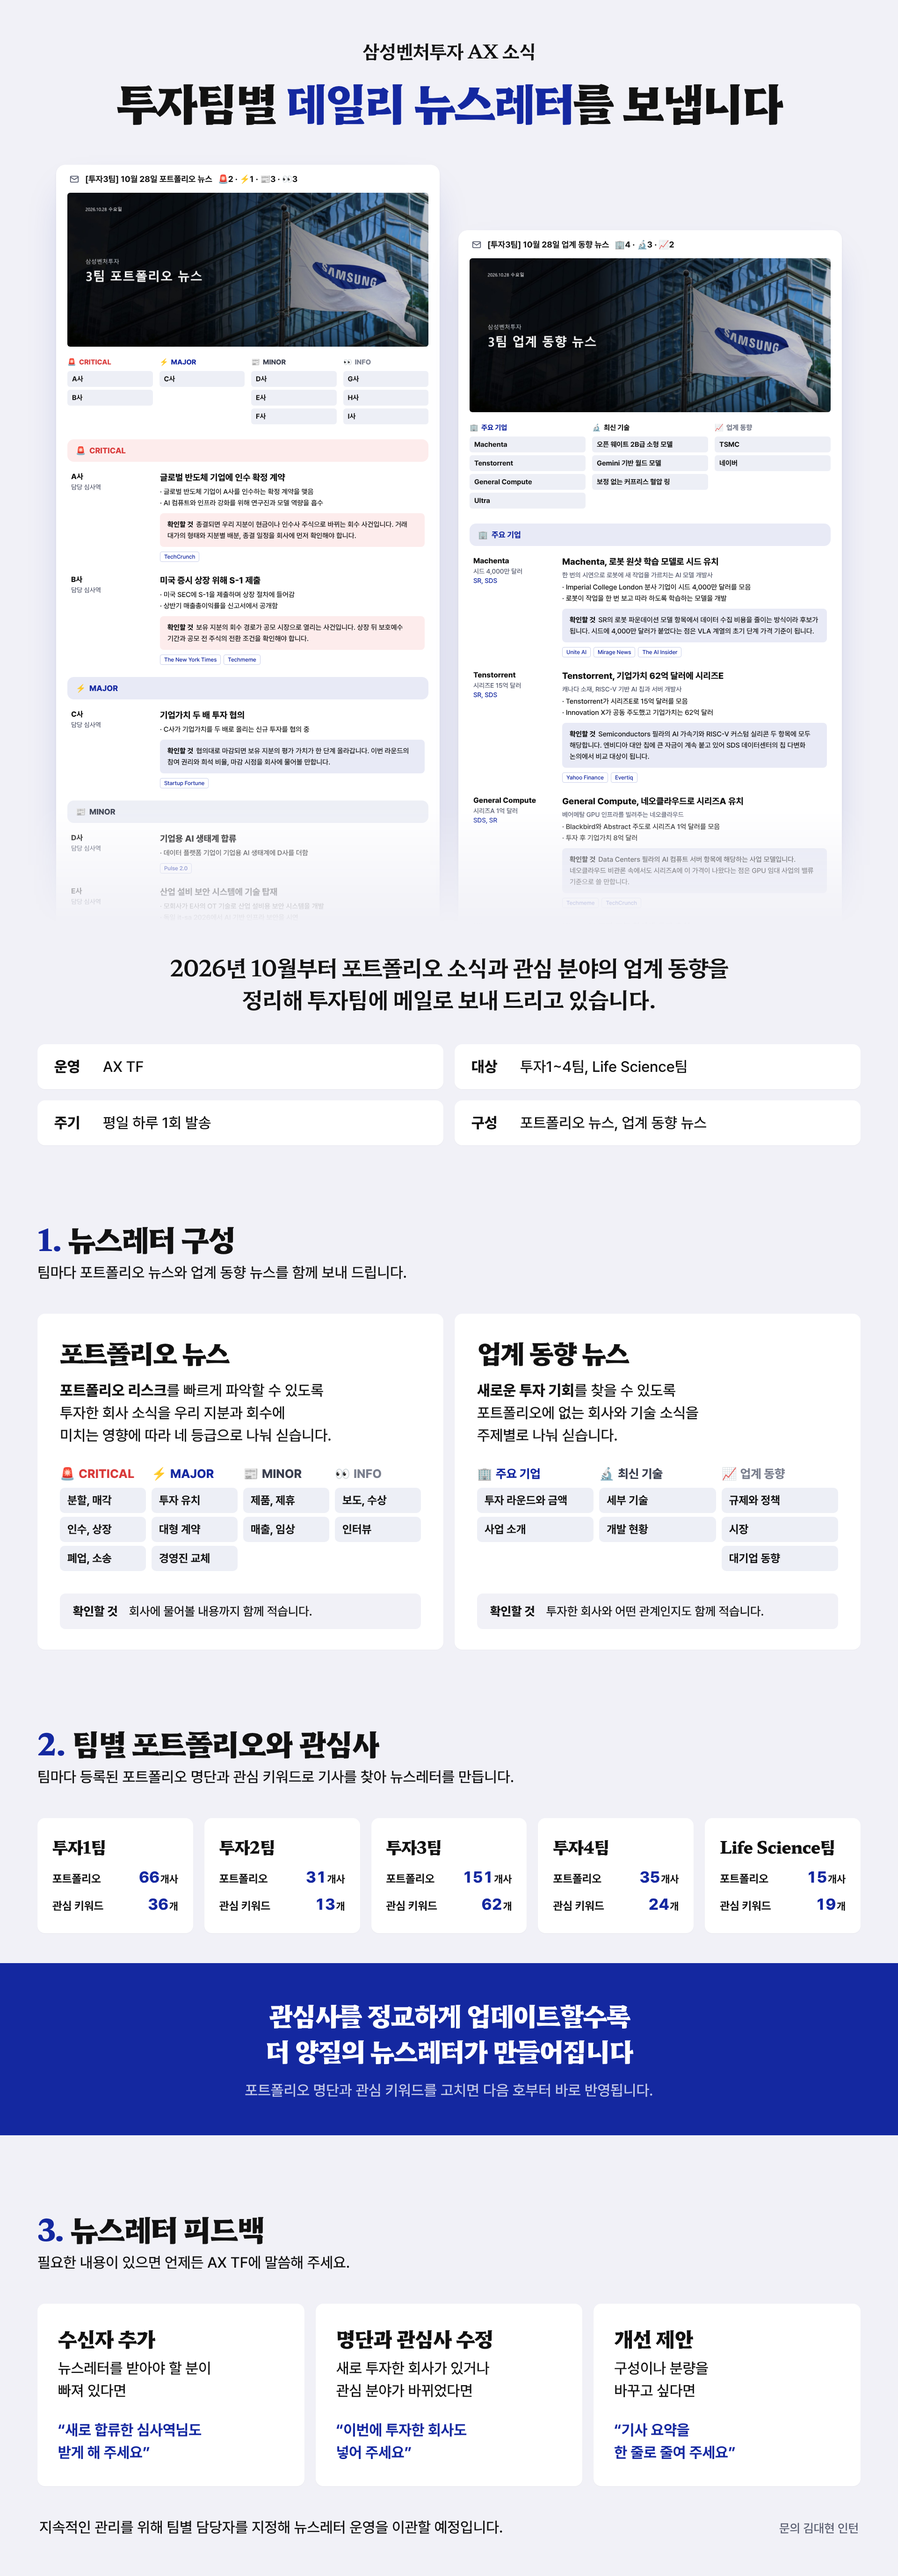
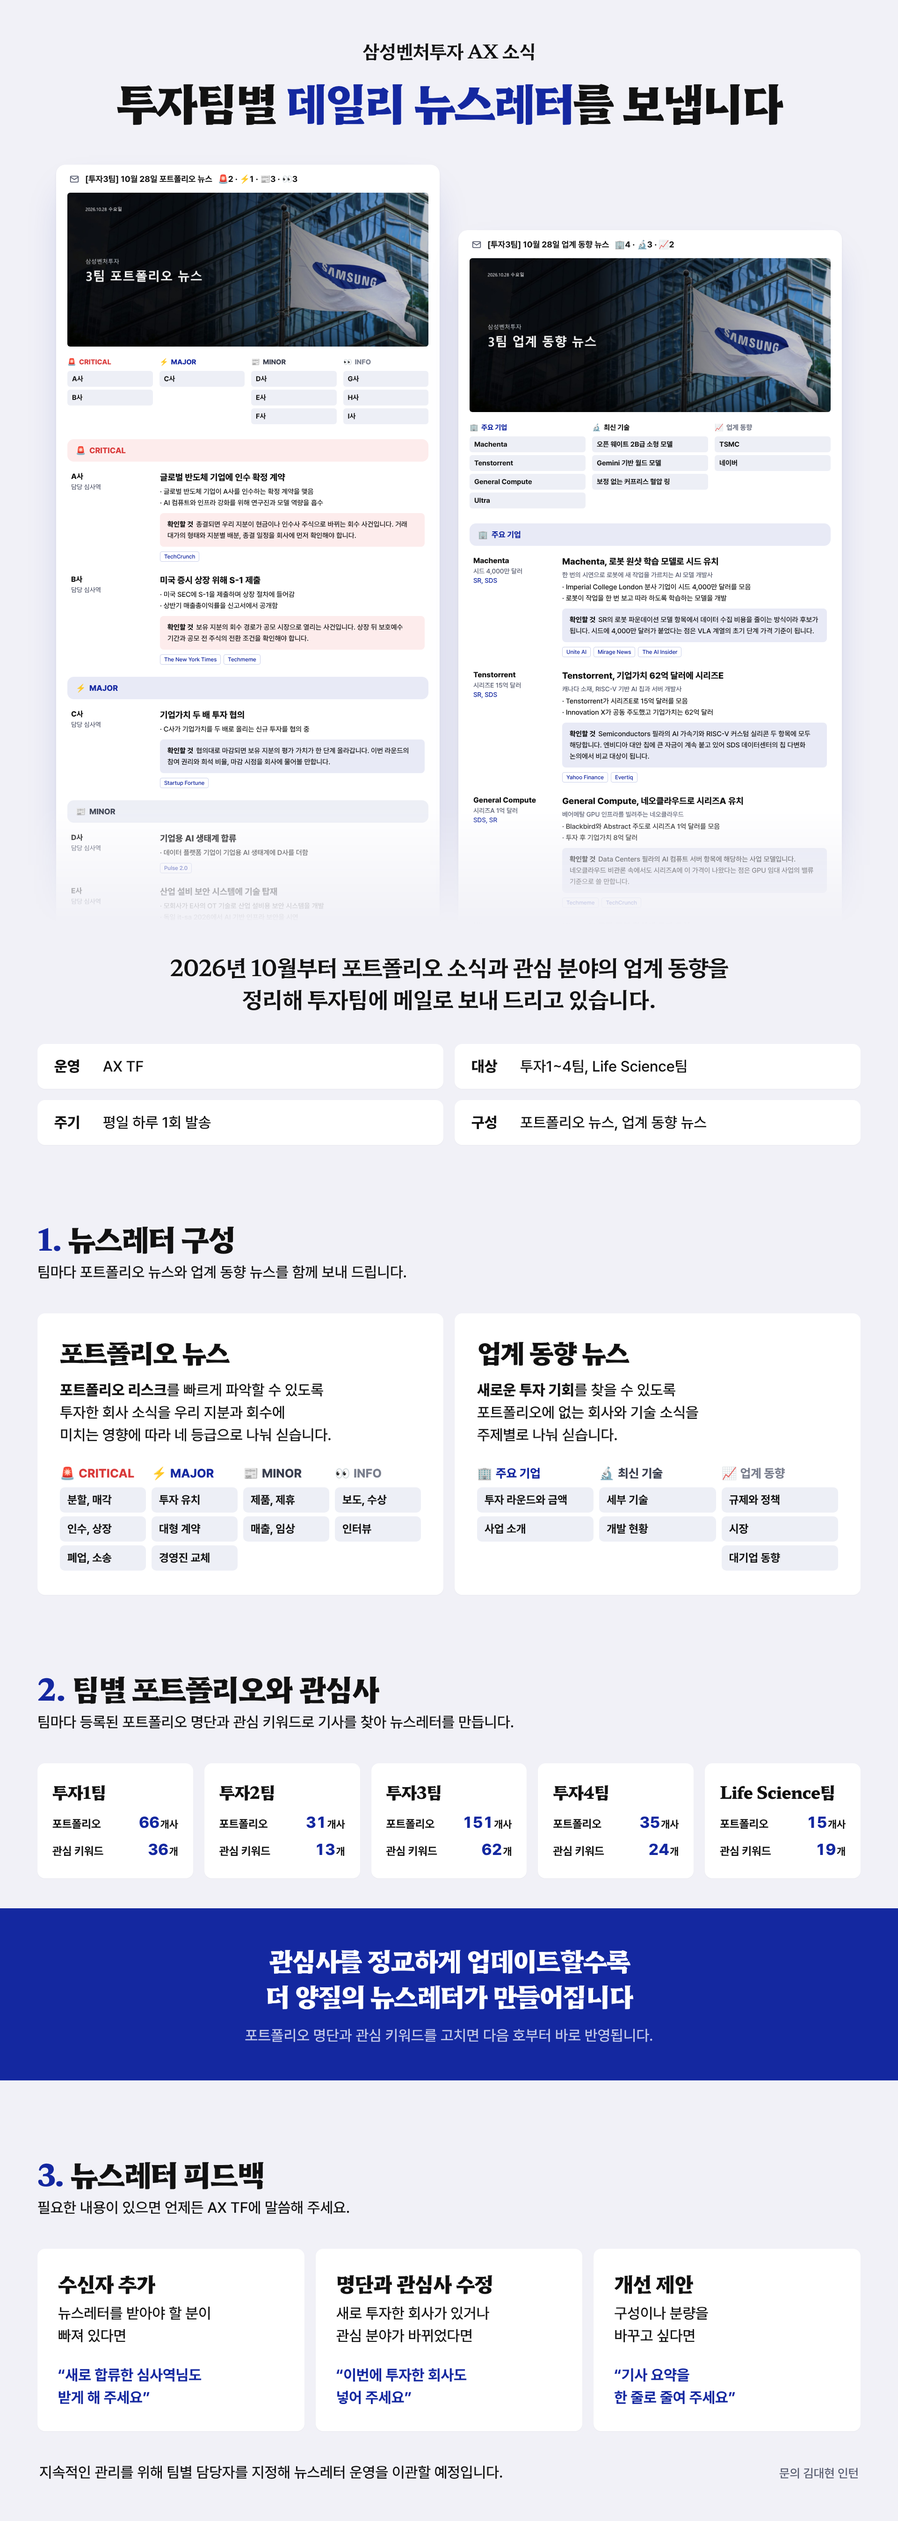
newsletter-notice: 뉴스레터 구성 카드에서 확인할 것 줄을 뺌
메일 모형의 항목마다 확인할 것 상자가 이미 보여서 카드의 설명 줄은 겹친다.

Claude-Session: https://claude.ai/code/session_01YSjo2N4gvMJ1LtkTYgDKfT

diff --git a/ax-tf/newsletter-notice/notice.html b/ax-tf/newsletter-notice/notice.html
@@ -97,13 +97,11 @@ svg { display: block; }
 .kind { background: var(--white); border-radius: var(--r-card); box-shadow: var(--shadow); padding: 48px 48px 44px; display: flex; flex-direction: column; }
 .kind .kt { font-family: var(--display); font-size: 56px; line-height: 68px; font-weight: 800; letter-spacing: -.04em; }
 .kind .kd { margin-top: var(--gap-sm); font-size: var(--t-body); line-height: var(--l-body); }
-.kind .tiles { display: grid; gap: var(--gap-xs); margin: var(--gap) 0; align-items: start; }
+.kind .tiles { display: grid; gap: var(--gap-xs); margin-top: var(--gap); align-items: start; }
 .kind .tiles.g4 { grid-template-columns: repeat(4, 1fr); }
 .kind .tiles.g3 { grid-template-columns: repeat(3, 1fr); }
 .kind .tiles .tl { font-size: var(--t-cap); line-height: var(--l-cap); font-weight: 800; margin-bottom: var(--gap-xs); display: flex; align-items: center; gap: 8px; white-space: nowrap; }
 .kind .tiles .ti { font-size: 24px; line-height: 34px; font-weight: 700; border-radius: 10px; padding: 10px 16px; margin-bottom: 8px; background: var(--minor-soft); }
-.kind .chk { margin-top: auto; display: flex; align-items: baseline; gap: var(--gap-sm); border-radius: var(--r-ctl); background: var(--paper); padding: 20px 28px; font-size: var(--t-cap); line-height: var(--l-cap); }
-.kind .chk b { flex: none; }
 
 /* ---------- 2. 팀별 포트폴리오와 관심사 ---------- */
 .teams { display: grid; grid-template-columns: repeat(5, 1fr); gap: var(--gap-sm); }
@@ -274,7 +272,6 @@ svg { display: block; }
           <div><div class="tl c-minor"><span class="em">📰</span>MINOR</div><div class="ti">제품, 제휴</div><div class="ti">매출, 임상</div></div>
           <div><div class="tl c-info"><span class="em">👀</span>INFO</div><div class="ti bg-info">보도, 수상</div><div class="ti bg-info">인터뷰</div></div>
         </div>
-        <div class="chk"><b>확인할 것</b><span>회사에 물어볼 내용까지 함께 적습니다.</span></div>
       </div>
       <div class="kind">
         <div class="kt">업계 동향 뉴스</div>
@@ -284,7 +281,6 @@ svg { display: block; }
           <div><div class="tl c-minor"><span class="em">🔬</span>최신 기술</div><div class="ti">세부 기술</div><div class="ti">개발 현황</div></div>
           <div><div class="tl c-info"><span class="em">📈</span>업계 동향</div><div class="ti bg-info">규제와 정책</div><div class="ti bg-info">시장</div><div class="ti bg-info">대기업 동향</div></div>
         </div>
-        <div class="chk"><b>확인할 것</b><span>투자한 회사와 어떤 관계인지도 함께 적습니다.</span></div>
       </div>
     </div>
   </section>
